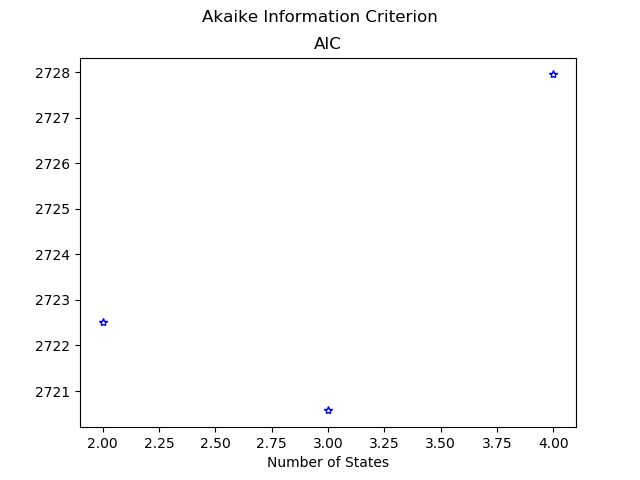
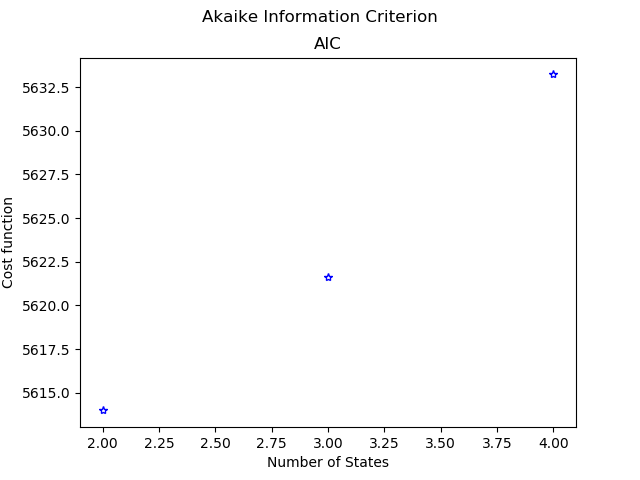
making figurez

diff --git a/Matplot_gen.py b/Matplot_gen.py
@@ -34,16 +34,16 @@ def Matplot_gen(x,acc_h1,bern_MAS_h1,bern_2_h1,MASlocBern,locBern2,cGom_MAS_h1,c
     l2 = ax.errorbar(x, bern_MAS_h1, fmt='o', c='g',marker="^",fillstyle='none', label = 'State 1')
     l3 = ax.errorbar(x, bern_2_h1, fmt='o', c='r',marker="^",fillstyle='none', label = 'State 2')
     ax.set_ylabel('Bernoulli', rotation=90)
-    ax.axhline(y= MASlocBern, linestyle = (0, (3, 5, 1, 5, 1, 5)), linewidth=1, color='r')
-    ax.axhline(y=locBern2, linestyle = (0, (3, 5, 1, 5, 1, 5)), linewidth=1, color='g')
+    ax.axhline(y= MASlocBern, linestyle = (0, (3, 5, 1, 5, 1, 5)), linewidth=1, color='g')
+    ax.axhline(y=locBern2, linestyle = (0, (3, 5, 1, 5, 1, 5)), linewidth=1, color='r')
 
     ax = axs[1,0]
     ax.set_xlabel(xlabel)
     ax.set_xscale("log", nonposx='clip')
     ax.errorbar(x,cGom_MAS_h1, fmt='o',c='g',marker="^",fillstyle='none', label = 'State 1')
     ax.errorbar(x,cGom_2_h1, fmt='o',c='r',marker="^",fillstyle='none', label = 'State 2')
-    ax.axhline(y=MAScGom, linestyle = (0, (3, 5, 1, 5, 1, 5)), linewidth=1, color='r')
-    ax.axhline(y=cGom2, linestyle = (0, (3, 5, 1, 5, 1, 5)), linewidth=1, color='g')
+    ax.axhline(y=MAScGom, linestyle = (0, (3, 5, 1, 5, 1, 5)), linewidth=1, color='g')
+    ax.axhline(y=cGom2, linestyle = (0, (3, 5, 1, 5, 1, 5)), linewidth=1, color='r')
     ax.set_ylabel('Gompertz C',rotation=90)
     ax.get_xaxis().set_major_formatter(matplotlib.ticker.ScalarFormatter())
     ax.get_xaxis().set_minor_formatter(matplotlib.ticker.NullFormatter())
@@ -54,8 +54,8 @@ def Matplot_gen(x,acc_h1,bern_MAS_h1,bern_2_h1,MASlocBern,locBern2,cGom_MAS_h1,c
     ax.set_xscale("log", nonposx='clip')
     ax.errorbar(x,scaleGom_MAS_h1, fmt='o',c='g',marker="^",fillstyle='none', label = 'State 1')
     ax.errorbar(x,scaleGom_2_h1, fmt='o',c='r',marker="^",fillstyle='none', label = 'State 2')
-    ax.axhline(y=MASscaleGom, linestyle = (0, (3, 5, 1, 5, 1, 5)), linewidth=1, color='r')
-    ax.axhline(y=scaleGom2, linestyle = (0, (3, 5, 1, 5, 1, 5)), linewidth=1, color='g')
+    ax.axhline(y=MASscaleGom, linestyle = (0, (3, 5, 1, 5, 1, 5)), linewidth=1, color='g')
+    ax.axhline(y=scaleGom2, linestyle = (0, (3, 5, 1, 5, 1, 5)), linewidth=1, color='r')
     ax.set_ylabel('Gompertz Scale',rotation=90)
     ax.get_xaxis().set_major_formatter(matplotlib.ticker.ScalarFormatter())
     ax.get_xaxis().set_minor_formatter(matplotlib.ticker.NullFormatter())

diff --git a/Accuracy.py b/Accuracy.py
@@ -26,43 +26,34 @@ def Accuracy(tHMMobj, lin, numStates, masterLineage, newLineage, all_states):
         for state_k in range(numStates):
             if state_j != state_k:
                 T_non_diag[state_j] = T[state_j,state_k]
-            
-    if E[0,2] > E[1,2]:
+    if E[0,0] > E[1,0]:
         state_1 = 0
         state_0 = 1
-    elif E[1,2] > E[0,2]:
+    elif E[1,0] > E[0,0]:
         state_1 = 1
         state_0 = 0
-    
+        
     wrong = 0  
     
     trues = []
+    viterbi_est = []
     for cell in range(len(lineage)):
-        trues.append(lineage[cell].true_state)
-        if lineage[cell].true_state == 0:
-            if all_states[lin][cell] == state_0:
+        cell_state = lineage[cell].true_state
+        viterbi_state = all_states[lin][cell]
+        trues.append(cell_state)
+        viterbi_est.append(viterbi_state)
+        if cell_state == 0:
+            if viterbi_state == state_0:
                 pass
             else:
                 wrong += 1
-        elif lineage[cell].true_state == 1:
-            if all_states[lin][cell] == state_1:
+        elif cell_state == 1:
+            if viterbi_state == state_1:
                 pass
             else:
                 wrong += 1           
                         
     accuracy = (len(lineage) - wrong)/len(lineage) #must be fixed for more than 1 lineage    
-    
-    ''' for cell in range(len(lineage)):
-        if cell < len(masterLineage):
-            if all_states[lin][cell] == state_1:
-                pass
-            else:
-                wrong += 1
-        elif cell >= len(masterLineage) and cell < len(newLineage):
-            if all_states[lin][cell] == state_2:
-                pass
-            else:
-                wrong += 1           
-    accuracy = (len(lineage) - wrong)/len(lineage) #must be fixed for more than 1 lineage'''
-    
+    print('trues', trues)
+    print('viterbi',viterbi_est)
     return(T,E,pi,state_0,state_1,accuracy,lineage)

diff --git a/Figure4_AIC.py b/Figure4_AIC.py
@@ -21,22 +21,22 @@ from Analyze import Analyze
 from Accuracy import Accuracy
 from Matplot_gen import Matplot_gen
 
-T_MAS = 60
-T_2 = 60
+T_MAS = 130
+T_2 = 61
 
-state1 = 1
+state1 = 2
 state2 = 4
 states = range(state1,state2+1) 
 reps = 1
 
 MASinitCells = [1]
-MASlocBern = [0.99999999999]
-MAScGom = [2]
-MASscaleGom = [30]
+MASlocBern = [0.8]
+MAScGom = [1.6]
+MASscaleGom = [40]
 initCells2 = [1]
-locBern2 = [0.7]
-cGom2 = [1.5]
-scaleGom2 = [25]
+locBern2 = [0.99]
+cGom2 = [1.6]
+scaleGom2 = [18]
 
 acc_h1 = [] #list of lists of lists
 cell_h1 = []
@@ -49,7 +49,9 @@ scaleGom_2_h1 = []
 #LL_h1 = []
 AIC_h1 = []
 
-X, masterLineage, newLineage = Lin_shak(T_MAS, MASinitCells, MASlocBern, MAScGom, MASscaleGom, T_2, initCells2, locBern2, cGom2, scaleGom2)
+X, masterLineage, newLineage = Lin_shak(T_MAS, MASinitCells, MASlocBern, MAScGom, MASscaleGom, T_2, initCells2, locBern2, cGom2, scaleGom2) 
+while len(newLineage) > 1000 or len(newLineage) < 600 or len(masterLineage) < 100 or (len(newLineage)-len(masterLineage)) < 100:
+        X, masterLineage, newLineage = Lin_shak(T_MAS, MASinitCells, MASlocBern, MAScGom, MASscaleGom, T_2, initCells2, locBern2, cGom2, scaleGom2)
 
 print(len(masterLineage), len(newLineage))
 
@@ -121,6 +123,8 @@ ax.errorbar(x, AIC_h1, fmt='o', c='b',marker="*",fillstyle='none')
 #ax.axhline(y=1, linestyle = (0, (3, 5, 1, 5, 1, 5)), linewidth=1, color='b',)
 ax.set_title('AIC')
 ax.set_xlabel('Number of States')
+ax.set_ylabel('Cost function',rotation=90)
+
 #ax.locator_params(nbins=4)
 
 fig.suptitle('Akaike Information Criterion')

diff --git a/Figure1_2Lineage.py b/Figure1_2Lineage.py
@@ -12,20 +12,20 @@ from Matplot_gen import Matplot_gen
 
 ################ Number of cell in a single lineage
 
-T_MAS = 60#100
-T_2 = 60#81
+T_MAS = 130
+T_2 = 61
 times = range(1,2) 
-reps = 10
+reps = 20
 switchT = 25
 
 MASinitCells = [1]
-MASlocBern = [0.99999999999]
-MAScGom = [2]
-MASscaleGom = [20]
+MASlocBern = [0.8]
+MAScGom = [1.6]
+MASscaleGom = [40]
 initCells2 = [1]
-locBern2 = [0.8] #0.7
-cGom2 = [1.8] #1.5
-scaleGom2 = [25] #25
+locBern2 = [0.99]
+cGom2 = [1.6]
+scaleGom2 = [18]
 
 numStates = 2
 
@@ -54,7 +54,7 @@ for experimentTime in times: #a pop with num number of lineages
         print('Rep:', rep)       
         
         X, masterLineage, newLineage = Lin_shak(T_MAS, MASinitCells, MASlocBern, MAScGom, MASscaleGom, T_2, initCells2, locBern2, cGom2, scaleGom2) 
-        while len(newLineage) > 2000:
+        while len(newLineage) > 1500 or len(masterLineage) < 100 or (len(newLineage)-len(masterLineage)) < 100:
             X, masterLineage, newLineage = Lin_shak(T_MAS, MASinitCells, MASlocBern, MAScGom, MASscaleGom, T_2, initCells2, locBern2, cGom2, scaleGom2)
             
         deltas, state_ptrs, all_states, tHMMobj, NF, LL = Analyze(X, numStates)

diff --git a/Analyze.py b/Analyze.py
@@ -16,9 +16,13 @@ from lineage.Lineage_utils import remove_NaNs, get_numLineages, init_Population
 from lineage.Lineage_utils import generatePopulationWithTime as gpt
 from lineage.CellNode import CellNode
 
-def Analyze(X, numStates):
-    tHMMobj = tHMM(X, numStates=numStates) # build the tHMM class with X
-    fit(tHMMobj, max_iter=200, verbose=False)
+def Analyze(X, numStates, keepBern=True):
+    run = True
+    while run == True:
+        tHMMobj = tHMM(X, numStates=numStates, keepBern=True) # build the tHMM class with X
+        fit(tHMMobj, max_iter=200, verbose=True)
+        if tHMMobj.paramlist[0]["E"][0,1] < 1000 and tHMMobj.paramlist[0]["E"][1,1] < 1000:
+            run = False
     deltas, state_ptrs = get_leaf_deltas(tHMMobj) # gets the deltas matrix
     get_nonleaf_deltas(tHMMobj, deltas, state_ptrs)
     all_states = Viterbi(tHMMobj, deltas, state_ptrs)

diff --git a/lineage/BaumWelch.py b/lineage/BaumWelch.py
@@ -99,8 +99,8 @@ def fit(tHMMobj, tolerance=1e-10, max_iter=100, verbose=False):
     count = 0
     while go: # exit the loop
 
-        if verbose:
-            print('\n iter: {}'.format(count))
+        #if verbose:
+            #print('\n iter: {}'.format(count))
         count += 1
 
         old_LL_list = new_LL_list
@@ -169,8 +169,8 @@ def fit(tHMMobj, tolerance=1e-10, max_iter=100, verbose=False):
         # tolerance checking
         new_LL_list = calculate_log_likelihood(tHMMobj, NF)
 
-        if verbose:
-            print("Average Log-Likelihood across all lineages: {}".format(np.mean(new_LL_list)))
+        #if verbose:
+            #print("Average Log-Likelihood across all lineages: {}".format(np.mean(new_LL_list)))
 
         for lineage_iter in range(len(new_LL_list)):
             calculation = abs(new_LL_list[lineage_iter] - old_LL_list[lineage_iter])

diff --git a/Lin_shak.py b/Lin_shak.py
@@ -49,7 +49,7 @@ def Lin_shak(T_MAS, MASinitCells, MASlocBern, MAScGom, MASscaleGom, T_2, initCel
     sublineage2[0].parent = master_cell
     newLineage = masterLineage + sublineage2
     
-        
+    #X = newLineage    
     X = remove_NaNs(newLineage)
     print(len(newLineage))
     return(X, masterLineage, newLineage)
